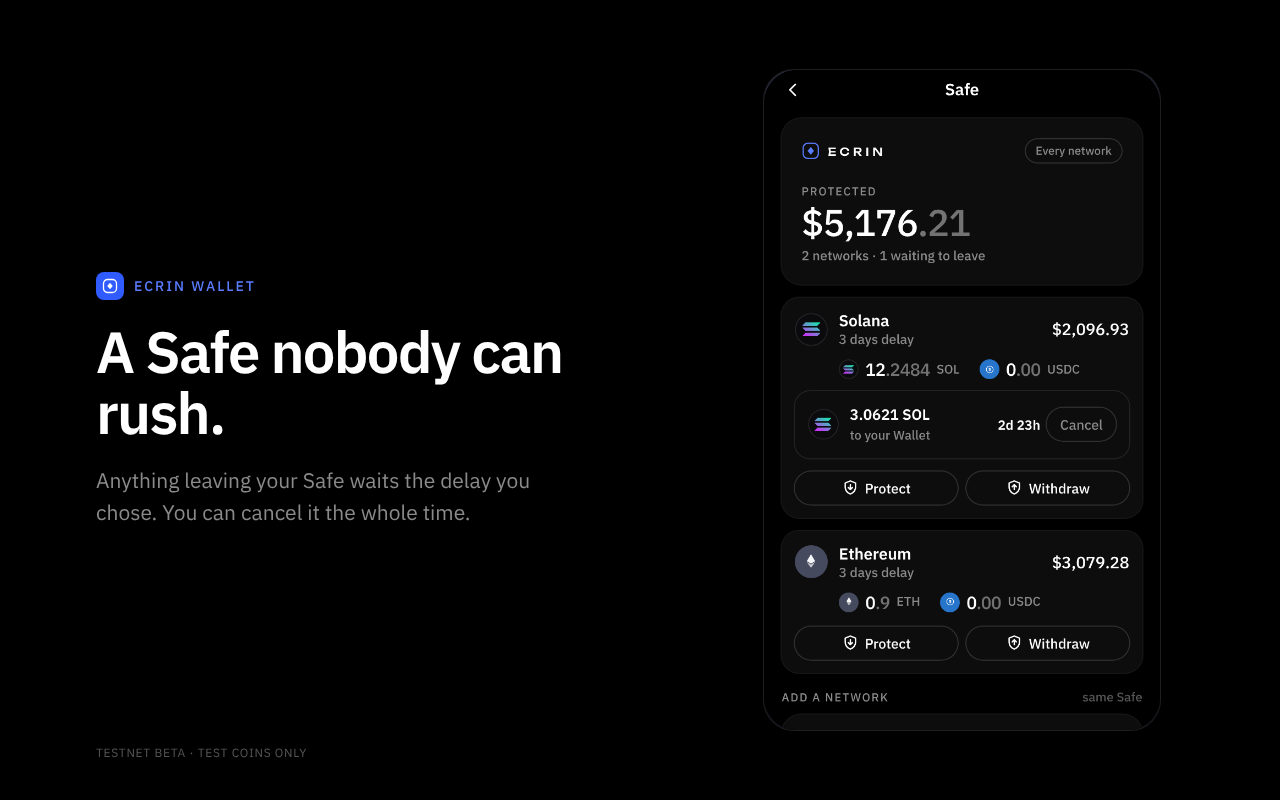
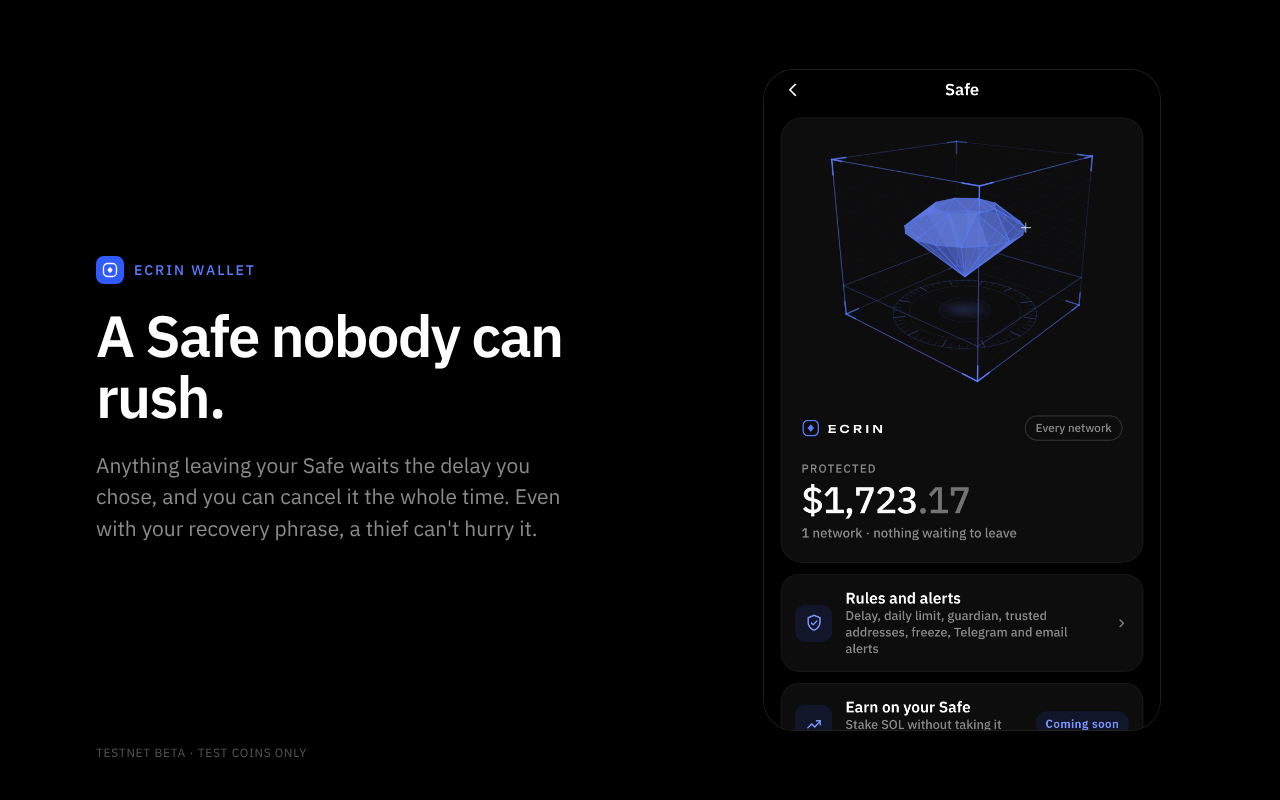
Store listing: new screenshots (3D Safe, approval preview, phishing block, safety) and updated description
Claude-Session: https://claude.ai/code/session_01PpVwNKSGKgnbbuH2nZjdCb

diff --git a/extension/store/LISTING.md b/extension/store/LISTING.md
@@ -26,7 +26,10 @@ SAFE: your Ecrin vault. Anything leaving it waits a delay you choose (24 hours o
 • Send with a clear review of exactly what leaves, a warning before sending to a new address, and press-and-hold to confirm.
 • Before you approve anything a website asks, Ecrin shows exactly what would leave your wallet and flags risky requests in red.
 • Phishing protection: known scam sites are blocked before they can ask for anything.
-• A token page with a live chart for every coin, an address book, and light or dark mode.
+• Safety tools: a daily spending limit, a cooling-off pause before big sends, protect-automatically, a one-tap freeze and a safety score with next steps.
+• See and revoke the permissions sites have over your tokens.
+• Several accounts, private key import, every token you hold with scam airdrops hidden, and a collectibles gallery.
+• A token page with a live chart for every coin, full activity history with search, an address book, and light or dark mode.
 • Your recovery phrase is encrypted on your computer and never leaves it. No account, no tracking, no ads.
 
 TESTNET BETA: Ecrin Wallet currently runs on test networks with test coins only. It has not been audited yet. Don't use real funds.
@@ -40,11 +43,11 @@ Website: https://ecrinprotocol.app
 **Store icon:** 128×128, already in the package (`icons/128.png`). The dashboard may ask for it again: use `extension/icons/128.png`.
 
 **Screenshots (1280×800, in this order):**
-1. `screenshot-1-home.png`
-2. `screenshot-2-safe.png`
-3. `screenshot-3-send.png`
-4. `screenshot-4-review.png`
-5. `screenshot-5-addresses.png`
+1. `screenshot-1-home.png`: your Wallet and your Safe, with the safety score
+2. `screenshot-2-safe.png`: the 3D Safe
+3. `screenshot-3-approve.png`: what leaves before you sign a website's request
+4. `screenshot-4-phish.png`: a scam site blocked
+5. `screenshot-5-safety.png`: limits, protect automatically and one-tap freeze
 
 **Small promo tile (440×280):** `promo-small-440x280.png`
 
